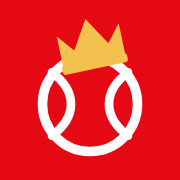
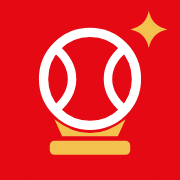
Rename the game to "The Final Prediction" with a new mark
Tino, 13 Nov 2026: "Change the name to the Final Prediction. Change the logo also."
- Name: event settings (app_name/short_name, Arabic التوقّع النهائي, privacy line), page title, share image.
- Mark: a red tennis ball as a crystal ball on a gold stand with a gold sparkle, in the header,
  favicon, home-screen icon, share card and share image.
- Results title "Road to the title"; migration 0054 reserves the new name for display names
  (app list mirrored, tests in both).

Changed region(s): [[0.1944, 0.1111, 0.8056, 0.8889], [0.7222, 0.0556, 0.9167, 0.2778]]

diff --git a/src/components/AppShell.tsx b/src/components/AppShell.tsx
@@ -23,7 +23,7 @@ export function AppShell({ children, wide = false }: { children: ReactNode; wide
   const avatar = (profile.data?.display_name || user?.email || "?").trim()[0]?.toUpperCase();
   const path = useRouterState({ select: (s) => s.location.pathname });
   const logo = publicImage(event.branding.logo_path);
-  // The header's short mark (branding.short_name, e.g. "Call the Crown"), drawn by Wordmark:
+  // The header's short mark (branding.short_name, e.g. "The Final Prediction"), drawn by Wordmark:
   // all but the last word on top, the last word underneath. The full app name stays in the page title.
   const headerName = (
     inLocale(event.branding, "short_name", locale) ??
@@ -114,11 +114,12 @@ export function AppShell({ children, wide = false }: { children: ReactNode; wide
 }
 
 /**
- * The game's name as a logo (Tino, 4 Oct 2026: "a bigger game name logo at the top"; then "go with the
- * crowned ball"): the mark, a red tennis ball wearing a gold crown (also public/favicon.svg), then two
- * stacked lines, all but the last word in white on top ("CALL THE") and the last word in gold
- * underneath ("CROWN"), its letters spread to the same width so the two lines read as one block.
+ * The game's name as a logo (Tino, 4 Oct 2026: "a bigger game name logo at the top"): the mark, then two
+ * stacked lines, all but the last word in white on top ("THE FINAL") and the last word in gold
+ * underneath ("PREDICTION"), its letters spread to the same width so the two lines read as one block.
  * Arabic letters join, so they are never spread apart: centred instead.
+ * The mark (13 Nov 2026, the rename to "The Final Prediction"): a red tennis ball as a crystal ball,
+ * on a gold stand, with a gold sparkle (also public/favicon.svg and drawMark in src/lib/callCard.ts).
  */
 function Wordmark({ words, spread }: { words: string[]; spread: boolean }) {
   const top = words.slice(0, -1).join(" ");
@@ -126,24 +127,25 @@ function Wordmark({ words, spread }: { words: string[]; spread: boolean }) {
   return (
     <span className="flex items-center gap-2">
       <svg viewBox="0 0 100 100" aria-hidden className="h-10 w-10 shrink-0 sm:h-12 sm:w-12">
-        <circle cx="50" cy="60" r="34" fill="var(--accent)" />
+        <circle cx="50" cy="44" r="32" fill="var(--accent)" />
         <path
-          d="M23 37 C41 51 41 69 23 83"
+          d="M26.4 22.4 C42 35.5 42 52.5 26.4 65.6"
           fill="none"
           stroke="#fff"
           strokeWidth="4.5"
           strokeLinecap="round"
         />
         <path
-          d="M77 37 C59 51 59 69 77 83"
+          d="M73.6 22.4 C58 35.5 58 52.5 73.6 65.6"
           fill="none"
           stroke="#fff"
           strokeWidth="4.5"
           strokeLinecap="round"
         />
-        <g transform="rotate(-12 50 18)" fill="var(--gold)">
-          <path d="M31 30 L31 12 L39 22 L50 6 L61 22 L69 12 L69 30 Z" />
-          <rect x="30" y="29.5" width="40" height="5.5" rx="1.5" />
+        <g fill="var(--gold)">
+          <path d="M27 70 Q50 88 73 70 L68 81 L32 81 Z" />
+          <rect x="24" y="84" width="52" height="9" rx="3" />
+          <path d="M86 2 Q88 11 97 13 Q88 15 86 24 Q84 15 75 13 Q84 11 86 2 Z" />
         </g>
       </svg>
       <span className="headline inline-grid leading-[0.92]">

diff --git a/src/lib/callCard.ts b/src/lib/callCard.ts
@@ -556,27 +556,25 @@ function withAlpha(color: string, alpha: number): string {
   return rgb ? `rgb(${rgb[1]} ${rgb[2]} ${rgb[3]} / ${alpha})` : color;
 }
 
-/** The crowned ball (the header's mark, AppShell Wordmark), at (x, y), `size` wide. */
+/** The tennis-ball crystal ball (the header's mark, AppShell Wordmark), at (x, y), `size` wide. */
 function drawMark(ctx: CanvasRenderingContext2D, x: number, y: number, size: number, c: Tokens) {
   ctx.save();
   ctx.translate(x, y);
   ctx.scale(size / 100, size / 100);
   ctx.beginPath();
-  ctx.arc(50, 60, 34, 0, Math.PI * 2);
+  ctx.arc(50, 44, 32, 0, Math.PI * 2);
   ctx.fillStyle = c.accent;
   ctx.fill();
   ctx.strokeStyle = "#fff";
   ctx.lineWidth = 4.5;
   ctx.lineCap = "round";
-  ctx.stroke(new Path2D("M23 37 C41 51 41 69 23 83"));
-  ctx.stroke(new Path2D("M77 37 C59 51 59 69 77 83"));
-  ctx.translate(50, 18);
-  ctx.rotate((-12 * Math.PI) / 180);
-  ctx.translate(-50, -18);
+  ctx.stroke(new Path2D("M26.4 22.4 C42 35.5 42 52.5 26.4 65.6"));
+  ctx.stroke(new Path2D("M73.6 22.4 C58 35.5 58 52.5 73.6 65.6"));
   ctx.fillStyle = c.gold;
-  ctx.fill(new Path2D("M31 30 L31 12 L39 22 L50 6 L61 22 L69 12 L69 30 Z"));
+  ctx.fill(new Path2D("M27 70 Q50 88 73 70 L68 81 L32 81 Z"));
+  ctx.fill(new Path2D("M86 2 Q88 11 97 13 Q88 15 86 24 Q84 15 75 13 Q84 11 86 2 Z"));
   ctx.beginPath();
-  ctx.roundRect(30, 29.5, 40, 5.5, 1.5);
+  ctx.roundRect(24, 84, 52, 9, 3);
   ctx.fill();
   ctx.restore();
 }

diff --git a/index.html b/index.html
@@ -6,11 +6,11 @@
     <meta name="theme-color" content="#0b0b0b" />
     <link rel="icon" type="image/svg+xml" href="/favicon.svg" />
     <link rel="apple-touch-icon" href="/apple-touch-icon.png" />
-    <title>Call the Crown</title>
+    <title>The Final Prediction</title>
     <meta name="description" content="Guess every match of the ATP Finals in Turin, 15–22 November: the winner and the score. Make a league and beat your friends. Free, no betting." />
     <!-- Link previews (WhatsApp, X, iMessage). Absolute address: crawlers do not resolve relative images. -->
     <meta property="og:type" content="website" />
-    <meta property="og:site_name" content="Call the Crown" />
+    <meta property="og:site_name" content="The Final Prediction" />
     <meta property="og:title" content="Guess every match of the ATP Finals" />
     <meta property="og:description" content="Zverev, Alcaraz, Shelton, Medvedev, Cobolli, Fils, Tiafoe, Jódar. Turin, 15–22 November. Call every winner and score, make a league, beat your friends. Free, no betting." />
     <meta property="og:url" content="https://crown.grandslamgm.com/" />

diff --git a/src/lib/displayName.ts b/src/lib/displayName.ts
@@ -118,9 +118,15 @@ const WORDS = new Set(
     "الدعم",
   ].map(nameSkeleton),
 );
-const INSIDE = ["Call the Crown", "توقع التاج", "Grand Slam GM", "administrator", "moderator"].map(
-  nameSkeleton,
-);
+const INSIDE = [
+  "The Final Prediction",
+  "التوقع النهائي",
+  "Call the Crown",
+  "توقع التاج",
+  "Grand Slam GM",
+  "administrator",
+  "moderator",
+].map(nameSkeleton);
 
 /** True when a display name could be taken for the game's own team. */
 export function reservedName(name: string): boolean {

diff --git a/src/i18n/ar.ts b/src/i18n/ar.ts
@@ -138,7 +138,7 @@ export const ar: Record<StringKey, string> = {
   set_who_aria: "من يفوز بالمجموعة {n}",
   save_up_to: "احفظ · حتى {points} نقطة",
   scoreboard_caption: "توقعك على لوحة النتائج، مجموعة بمجموعة",
-  draw_title: "الطريق إلى التاج",
+  draw_title: "الطريق إلى اللقب",
   draw_next: "التالي:",
   draw_live: "مباشر",
   draw_champion: "البطل",

diff --git a/tests/displayName.test.ts b/tests/displayName.test.ts
@@ -17,6 +17,11 @@ const samples: [string, boolean][] = [
   ["C" + C(1072) + "ll the Cr" + C(1086) + "wn", true], // Cyrillic a and o
   ["Call the Crown", true],
   ["Call The Crown HQ", true],
+  ["The Final Prediction", true],
+  ["THE FINAL PREDICTION official", true],
+  ["The F1nal Predicti0n", true],
+  ["التوقّع النهائي", true],
+  ["My final prediction", false],
   ["Staff", true],
   ["Moderator", true],
   ["Support", true],

diff --git a/src/i18n/strings.ts b/src/i18n/strings.ts
@@ -144,7 +144,7 @@ export const en = {
   set_who_aria: "Who wins set {n}",
   save_up_to: "Save · up to {points} pts",
   scoreboard_caption: "Your pick as a scoreboard, set by set",
-  draw_title: "Road to the crown",
+  draw_title: "Road to the title",
   draw_next: "Next up:",
   draw_live: "Live",
   draw_champion: "Champion",
